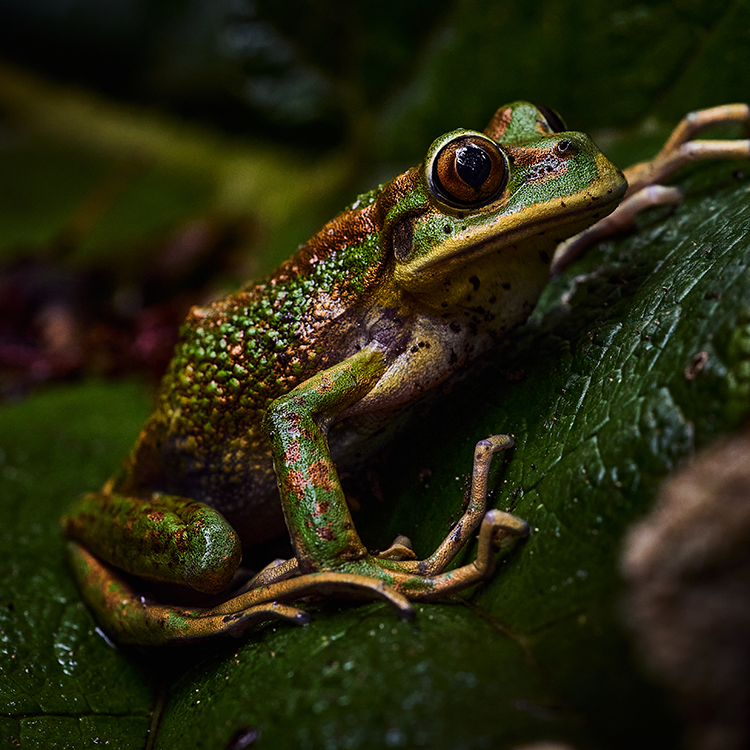
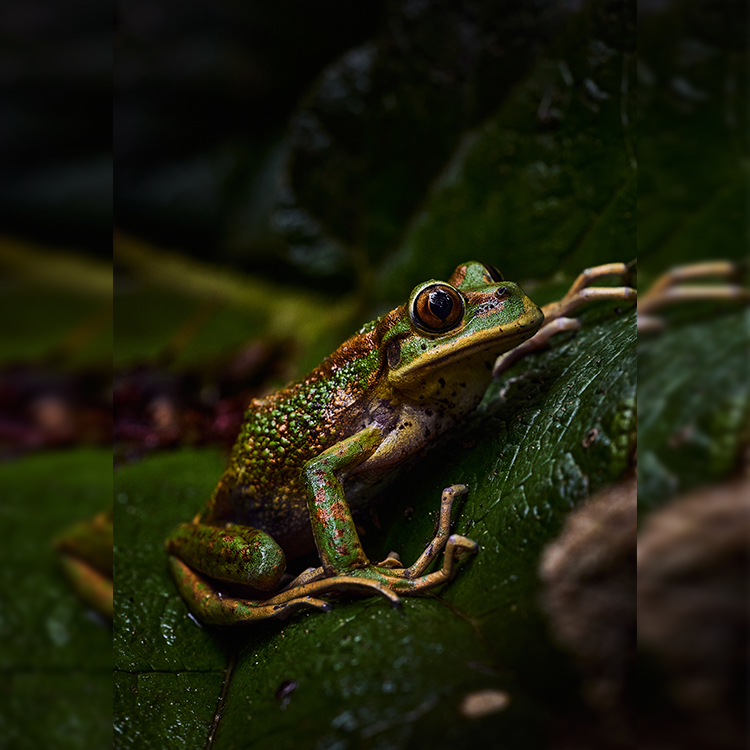
Photos resize

diff --git a/style.css b/style.css
@@ -209,14 +209,14 @@ h2 {
     display: flex;
     justify-content: center;
     gap: 20px;
-    flex-wrap: wrap;
-    margin: 40px auto 0;
-    max-width: 1100px;
-
+    flex-wrap: nowrap;
+    margin: 0 auto;
+    max-width: 1300px;
 }
 
 .option {
-    width: 350px;
+    width: calc(25% - 15px);
+    min-width: 0;
     min-height: 220px;
     display: flex;
     flex-direction: column;
@@ -224,7 +224,7 @@ h2 {
     align-items: center;
     gap: 35px;
     padding: 15px;
-    border: 1px solid rgba(255, 255, 255, 0.2);
+    border: 4px solid rgba(100, 178, 134, 0.9);
     border-radius: 14px;
     overflow: hidden;
     background: linear-gradient(180deg, rgba(9, 34, 22, 0.82), rgba(20, 65, 48, 0.75));
@@ -251,12 +251,14 @@ h2 {
     position: relative;
     z-index: 1;
     width: 100%;
-    height: 450px;
+    height: 390px;
     object-fit: cover;
+    object-position: center;
     border-radius: 10px;
     box-shadow: 0 12px 22px rgba(0, 30, 5, 0.75);
     background: rgba(255, 255, 255, 0.15);
     border: 1px solid rgba(255, 255, 255, 0.18);
+    display: block;
 }
 
 .option span {
@@ -286,7 +288,7 @@ h2 {
     color: #fbfbfb;
     font-size: 25px;
     font-weight: bold;
-    line-height: 1;
+    line-height: 1.25;
 }
 
 .option-scientific {
@@ -316,15 +318,19 @@ h2 {
 
 .option:hover {
     transform: translateY(-2px) scale(1.02);
-    box-shadow: 0 14px 32px rgba(0, 0, 0, 0.22), 0 0 0 1px rgba(244, 152, 44, 0.45);
-    border-color: rgba(244, 152, 44, 0.65);
+    box-shadow: 0 14px 32px rgba(132, 255, 0, 0.5), 0 0 0 1px rgba(231, 244, 44, 0.95);
+    border-color: rgba(132, 255, 0, 0.5);
 }
 
 /* ======== MENSAJE ======== */
 
 #message {
+    display: flex;
+    align-items: center;
+    justify-content: center;
+    min-height: 72px;
+    margin: 20px auto 10px;
     font-size: 50px;
-    margin-top: 20px;
     font-weight: bold;
     line-height: 1.2;
     letter-spacing: 0.02em;
@@ -765,7 +771,7 @@ h2 {
     }
 
     .options {
-        width: min(100%, 420px);
+        width: min(100%, 700px);
         margin-left: auto;
         margin-right: auto;
         gap: 12px;

diff --git a/index.html b/index.html
@@ -14,7 +14,7 @@
         <div class="welcome-copy">
             <img class="welcome-logo" src="Images/LogoChepu.png" alt="Logo del Santuario de la cuenca de Chepu">
             <p class="eyebrow">Fauna nativa de Chiloé</p>
-            <h1>test ANFIBIOS DEL SANTUARIO DE LA NATURALEZA</h1>
+            <h1>ANFIBIOS DEL SANTUARIO DE LA NATURALEZA</h1>
             <span class="Subtitle">HUMEDALES DE LA CUENCA DE CHEPU</span>
             <p class="welcome-text">Conoce a las especies que habitan este humedal y pon a prueba tu mirada identificando sus siluetas.</p>
             <button id="startBtn" type="button">Comenzar recorrido <span aria-hidden="true">→</span></button>
@@ -32,11 +32,11 @@
         <div id="progress-bar"></div>
     </div>
 
-    <!-- Opciones -->
-    <div id="options" class="options"></div>
-    
     <!-- Mensaje -->
     <p id="message"></p>
+
+    <!-- Opciones -->
+    <div id="options" class="options"></div>
 
     <!-- Animal correcto -->
     <div id="correct-animal" class="hidden">
